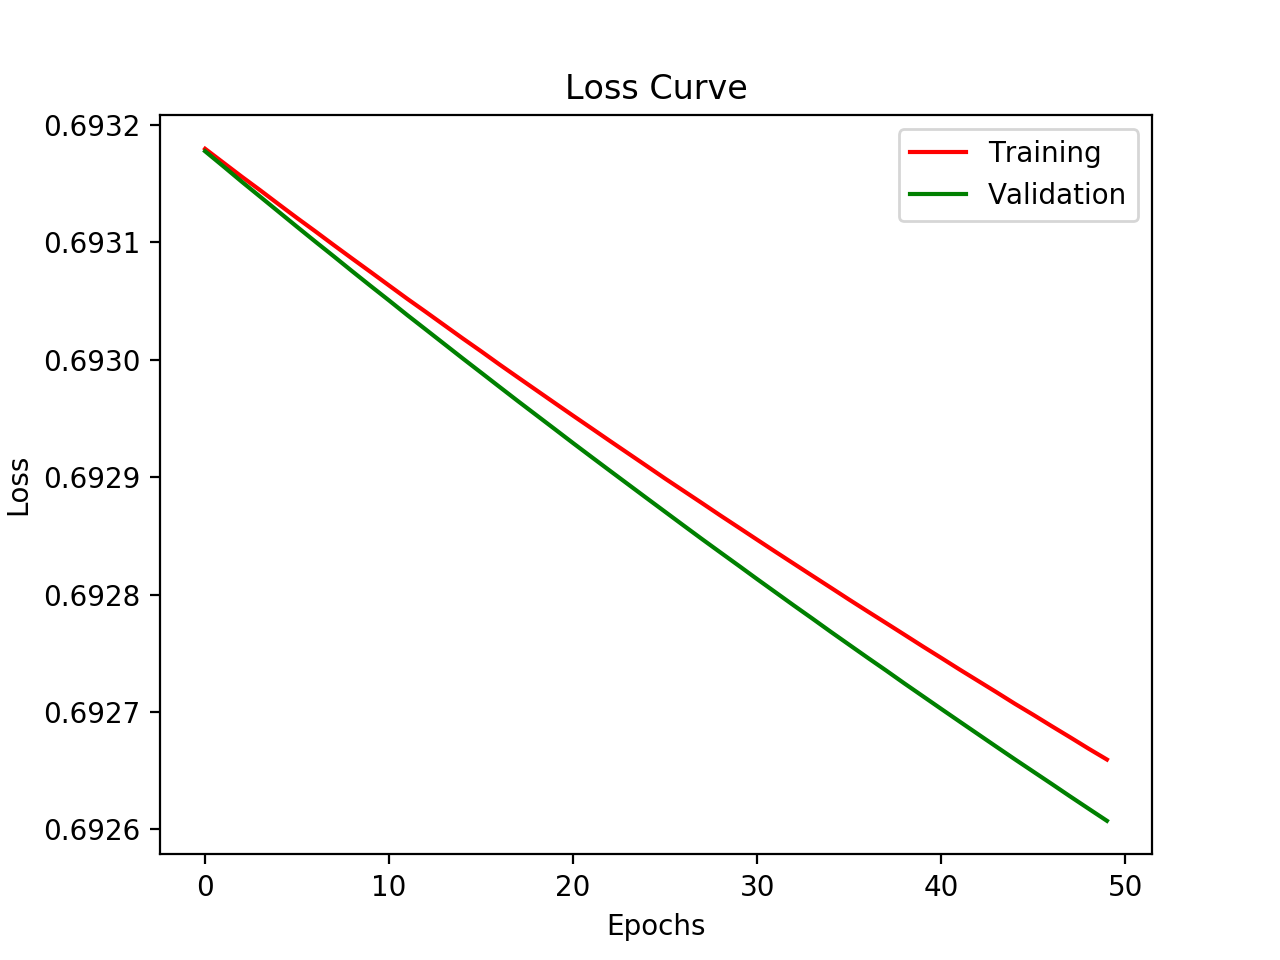
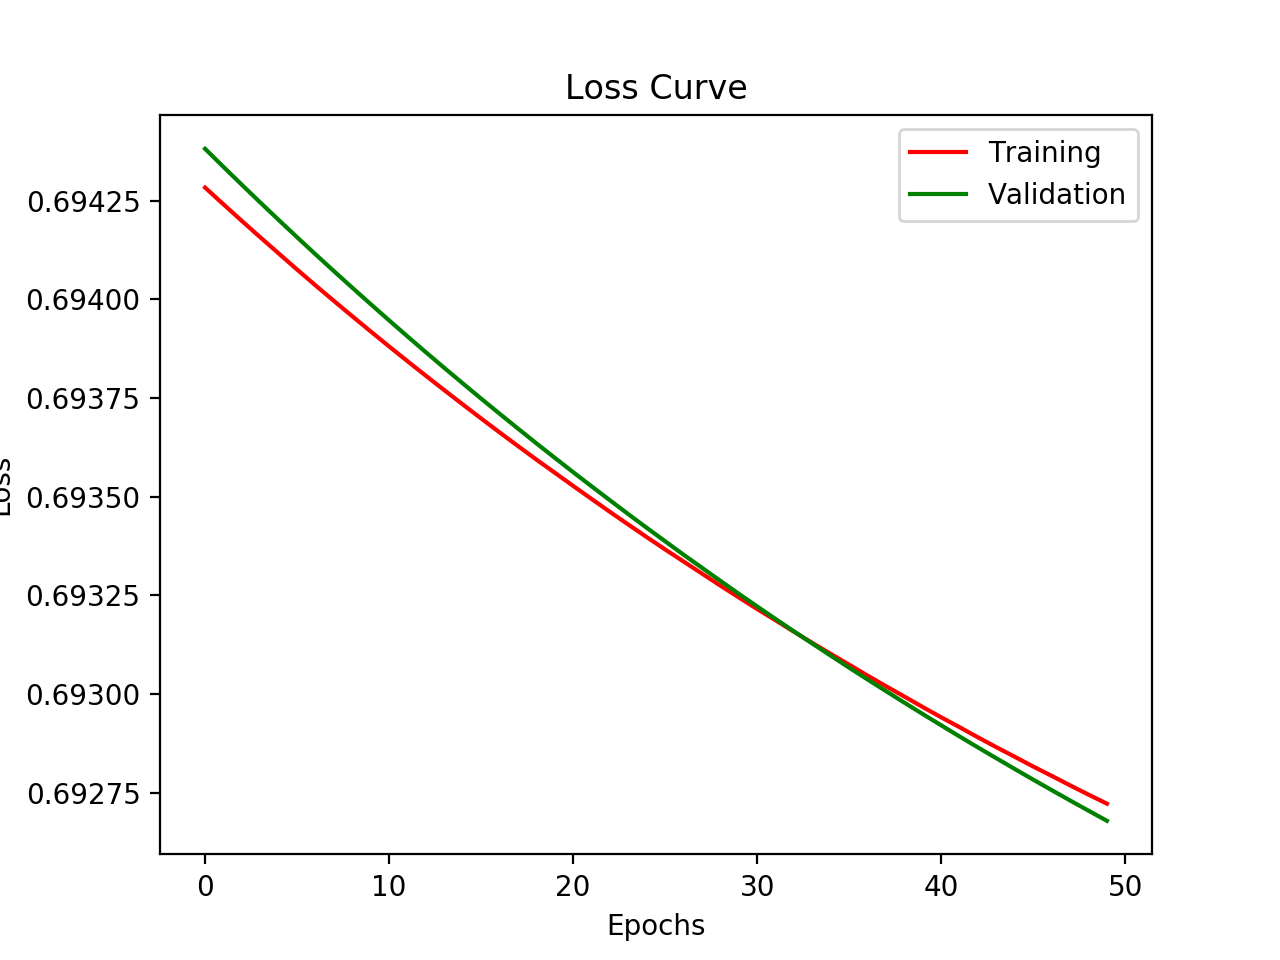
v0.7.1 : JAX Refactoring

diff --git a/test.py b/test.py
@@ -23,8 +23,8 @@ y_val = tensor.array(testing_data[0].values.reshape(1, -1))  # shape : (1, m)
 x_val = tensor.array(testing_data.iloc[:, 1:].values.T) / 255.0  # shape = (n, m)
 
 model = Sequential()
-model.add(FC(units=500, activation="sigmoid", input_dim=784))
-model.add(FC(units=10, activation="sigmoid"))
+model.add(FC(units=500, activation="mish", input_dim=784))
+model.add(FC(units=10, activation="relu"))
 model.add(FC(units=1, activation="sigmoid"))
 model.compile(loss="binary_crossentropy", optimizer="sgd", lr=1e-02)
 model.fit(inputs=x_train, targets=y_train, epochs=50, validation_data=(x_val, y_val))
